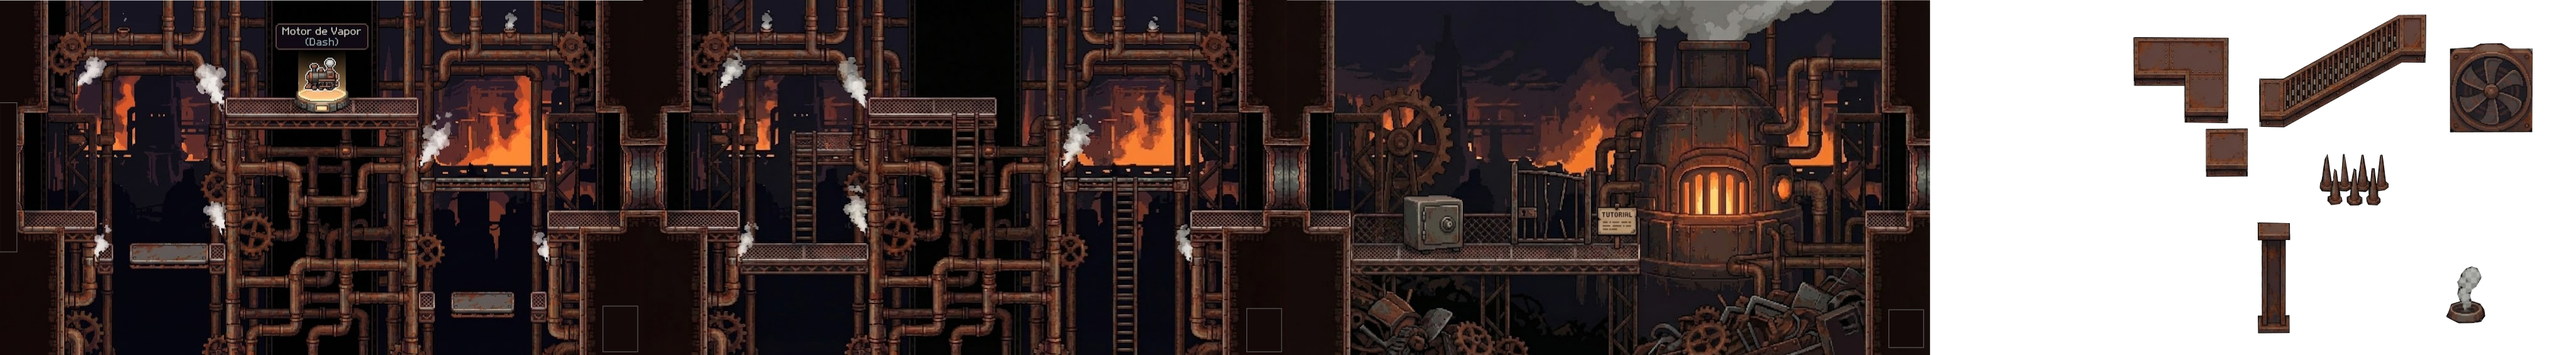
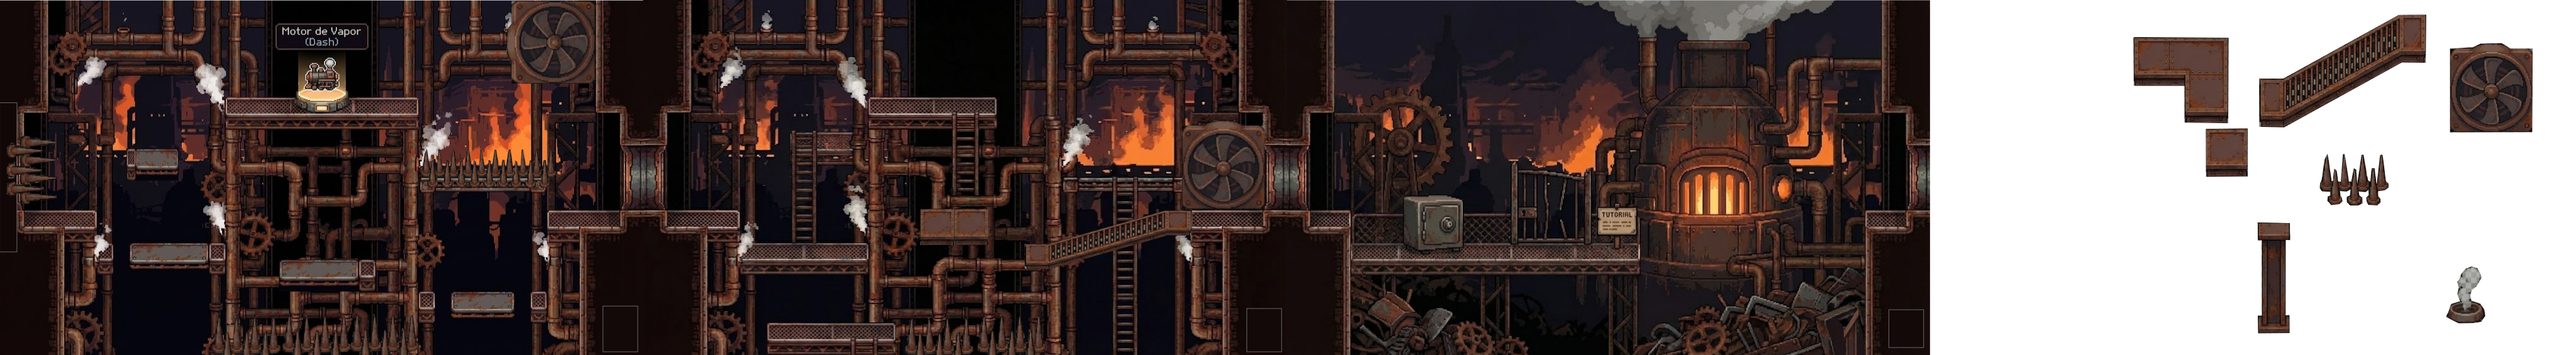
Map

diff --git a/src/level.py b/src/level.py
@@ -66,27 +66,24 @@ class Level:
         self.enemy_sprites.empty()
         
         # Cargar mapa según índice
-        # Si nos pasamos de niveles, volvemos al 0 o mostramos pantalla de victoria
         if index >= len(levels):
             index = 0
             self.current_level_index = 0
             
         layout = levels[index]
-        tile_size = 64
         
         # Calcular ancho del nivel para saber cuándo cambiar
-        self.level_width = len(layout[0]) * tile_size
+        self.level_width = len(layout[0]) * TILE_SIZE
 
         for row_index, row in enumerate(layout):
             for col_index, cell in enumerate(row):
-                x = col_index * tile_size
-                y = row_index * tile_size
+                x = col_index * TILE_SIZE
+                y = row_index * TILE_SIZE
                 
                 if cell == 'X':
                     tile = pygame.sprite.Sprite(self.visible_sprites, self.obstacle_sprites)
-                    # Bloque de depuración (rojo semitransparente) para colisiones
-                    # Descomentar para ver las colisiones y ajustarlas al fondo
-                    tile.image = pygame.Surface((tile_size, tile_size), pygame.SRCALPHA)
+                    # Usar los tamaños de plataforma configurables
+                    tile.image = pygame.Surface((PLATFORM_TILE_WIDTH, PLATFORM_TILE_HEIGHT), pygame.SRCALPHA)
                     tile.image.fill((255, 0, 0, 128)) # Rojo semitransparente para DEBUG
                     tile.rect = tile.image.get_rect(topleft=(x, y))
                 
@@ -95,7 +92,7 @@ class Level:
                     self.visible_sprites.add(self.player)
                     
                 if cell == 'E':
-                    enemy = Enemy((x, y + 32), 200) 
+                    enemy = Enemy((x, y + TILE_SIZE // 2), 200) # Ajuste y + 32 a y + TILE_SIZE // 2
                     self.visible_sprites.add(enemy)
                     self.enemy_sprites.add(enemy)
 
@@ -131,11 +128,13 @@ class Level:
     def check_enemy_collisions(self):
         if self.player.attacking:
             for enemy in self.enemy_sprites:
-                if self.player.attack_rect.colliderect(enemy.rect):
+                if enemy.status != 'die' and self.player.attack_rect.colliderect(enemy.rect):
                     enemy.take_damage()
 
         hits = pygame.sprite.spritecollide(self.player, self.enemy_sprites, False)
-        if hits:
+        valid_hits = [enemy for enemy in hits if enemy.status != 'die']
+        
+        if valid_hits:
             self.player.health -= 1
             if self.player.health <= 0:
                 self.create_map(self.current_level_index) # Reiniciar mismo nivel

diff --git a/src/maps.py b/src/maps.py
@@ -1,24 +1,40 @@
 # Diseños de Nivel
-# Ajustado para main_map.png escalado (aprox 5220x720)
-# Tile size 64px -> ~82 columnas x 11 filas
+# Ajustado para main_map.png con ALTA PRECISIÓN (32px grid)
+# Altura 720px / 32px = ~22.5 filas -> Usaremos 23 filas
+# Ancho ~5248px / 32px = ~164 columnas
 
 # P = Player
 # E = Enemy
 # X = Pared/Plataforma
 
+# Generamos un mapa base largo
+row_empty = " " * 164
+row_floor = "X" * 164
+
 level_0 = [
-    "X" + " " * 80 + "X", # 0
-    "X" + " " * 80 + "X", # 1
-    "X" + " " * 80 + "X", # 2
-    "X" + " " * 80 + "X", # 3
-    "X" + " " * 80 + "X", # 4
-    "X" + " " * 80 + "X", # 5
-    "X" + " " * 80 + "X", # 6
-    "X" + " " * 80 + "X", # 7
-    "X        E         E         E         E         E         E         E        X", # 8
-    "X P                                                                           X", # 9
-    "XXXXXXXXXXXXXXXXXXXXXXXXXXXXXXXXXXXXXXXXXXXXXXXXXXXXXXXXXXXXXXXXXXXXXXXXXXXXXXXXXX", # 10 (Suelo)
-    "XXXXXXXXXXXXXXXXXXXXXXXXXXXXXXXXXXXXXXXXXXXXXXXXXXXXXXXXXXXXXXXXXXXXXXXXXXXXXXXXXX", # 11
+    row_empty, # 0
+    "XXX                                   XXXXXX", # 1
+    "XXX                                   XXXXXX", # 2
+    "XXX                                   XXXXXX", # 3
+    "XXX                                   XXXXXX", # 4
+    "XXX                                   XXXXXX", # 5
+    "XXX                                   XXXXXX ", # 6
+    "X             XXXXXXXXXXXXX           XXXXX     ", # 7
+    "X                                      XXX", # 8
+    "X", # 9
+    "X       XXX", # 10
+    "X", # 11
+    "X      ", # 12
+    "X                                      XXX                                      XXX                     ", # 13
+    "XXXXXX                             XXXXX XXXXXX           XXXXX          XXXXXXXX XXX                    ", # 14
+    "   X                                                                  XXX                             P   ", # 15
+    "   X    XXXXXX                                 XXXXXXXX          XXXXX               XXXXXXXXXXXXXXXXXXX", # 16
+    "   X              XXXXXX", # 17
+    "   X", # 18
+    "   X                        XXXXX", # 19
+    "   X", # 20
+    "   X                                                                                                                               ", # 21 (Entidades)
+    row_floor, # 22 (Suelo)
 ]
 
 levels = [level_0]

diff --git a/src/enemy.py b/src/enemy.py
@@ -154,8 +154,7 @@ class Enemy(pygame.sprite.Sprite):
         self.frame_index += self.animation_speed
         if self.frame_index >= len(animation):
             if self.status == 'die':
-                self.kill()
-                return
+                self.frame_index = len(animation) - 1
             elif self.status == 'attack':
                 # Si termina el ataque, esperamos al cooldown
                 self.frame_index = 0 

diff --git a/src/settings.py b/src/settings.py
@@ -42,6 +42,11 @@ ENEMY_DAMAGE = 20
 ENEMY_ATTACK_DISTANCE = 150
 ENEMY_ATTACK_COOLDOWN = 1000
 
+# Tiles
+TILE_SIZE = 32 # Mayor precisión (antes 64)
+PLATFORM_TILE_WIDTH = 32
+PLATFORM_TILE_HEIGHT = 20
+
 # UI
 UI_BAR_HEIGHT = 20
 UI_HEALTH_BAR_WIDTH = 200
